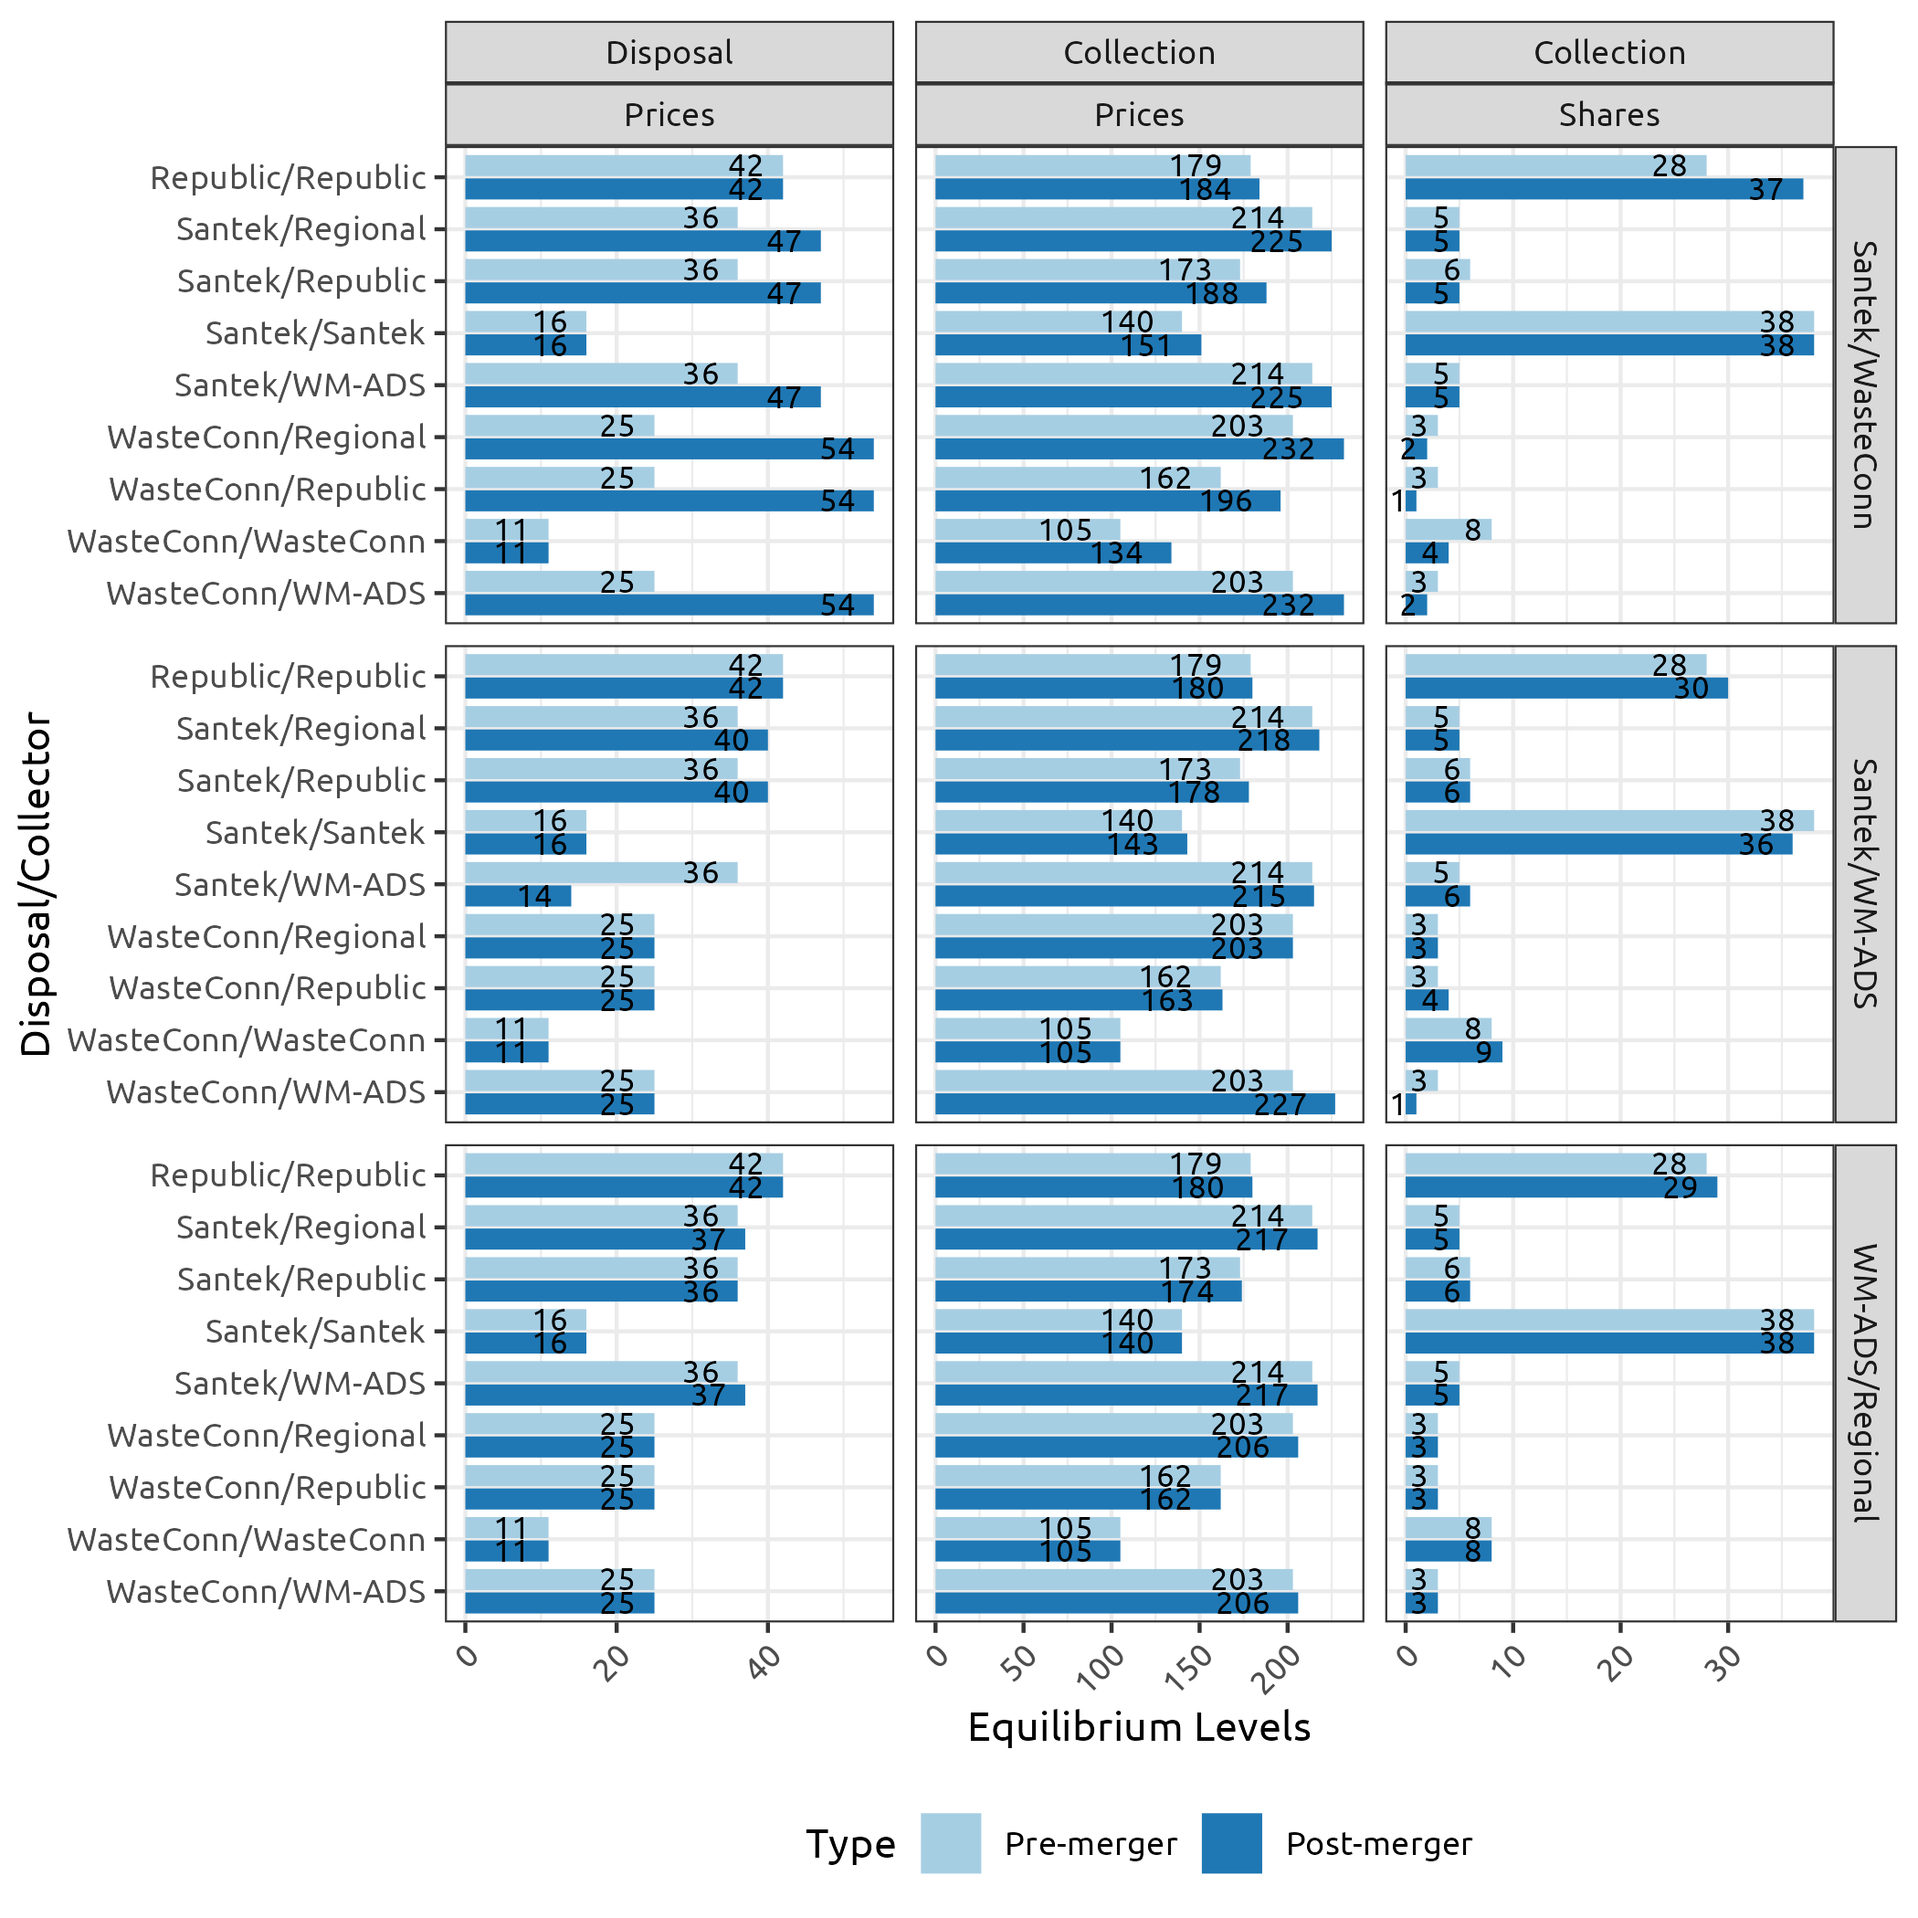
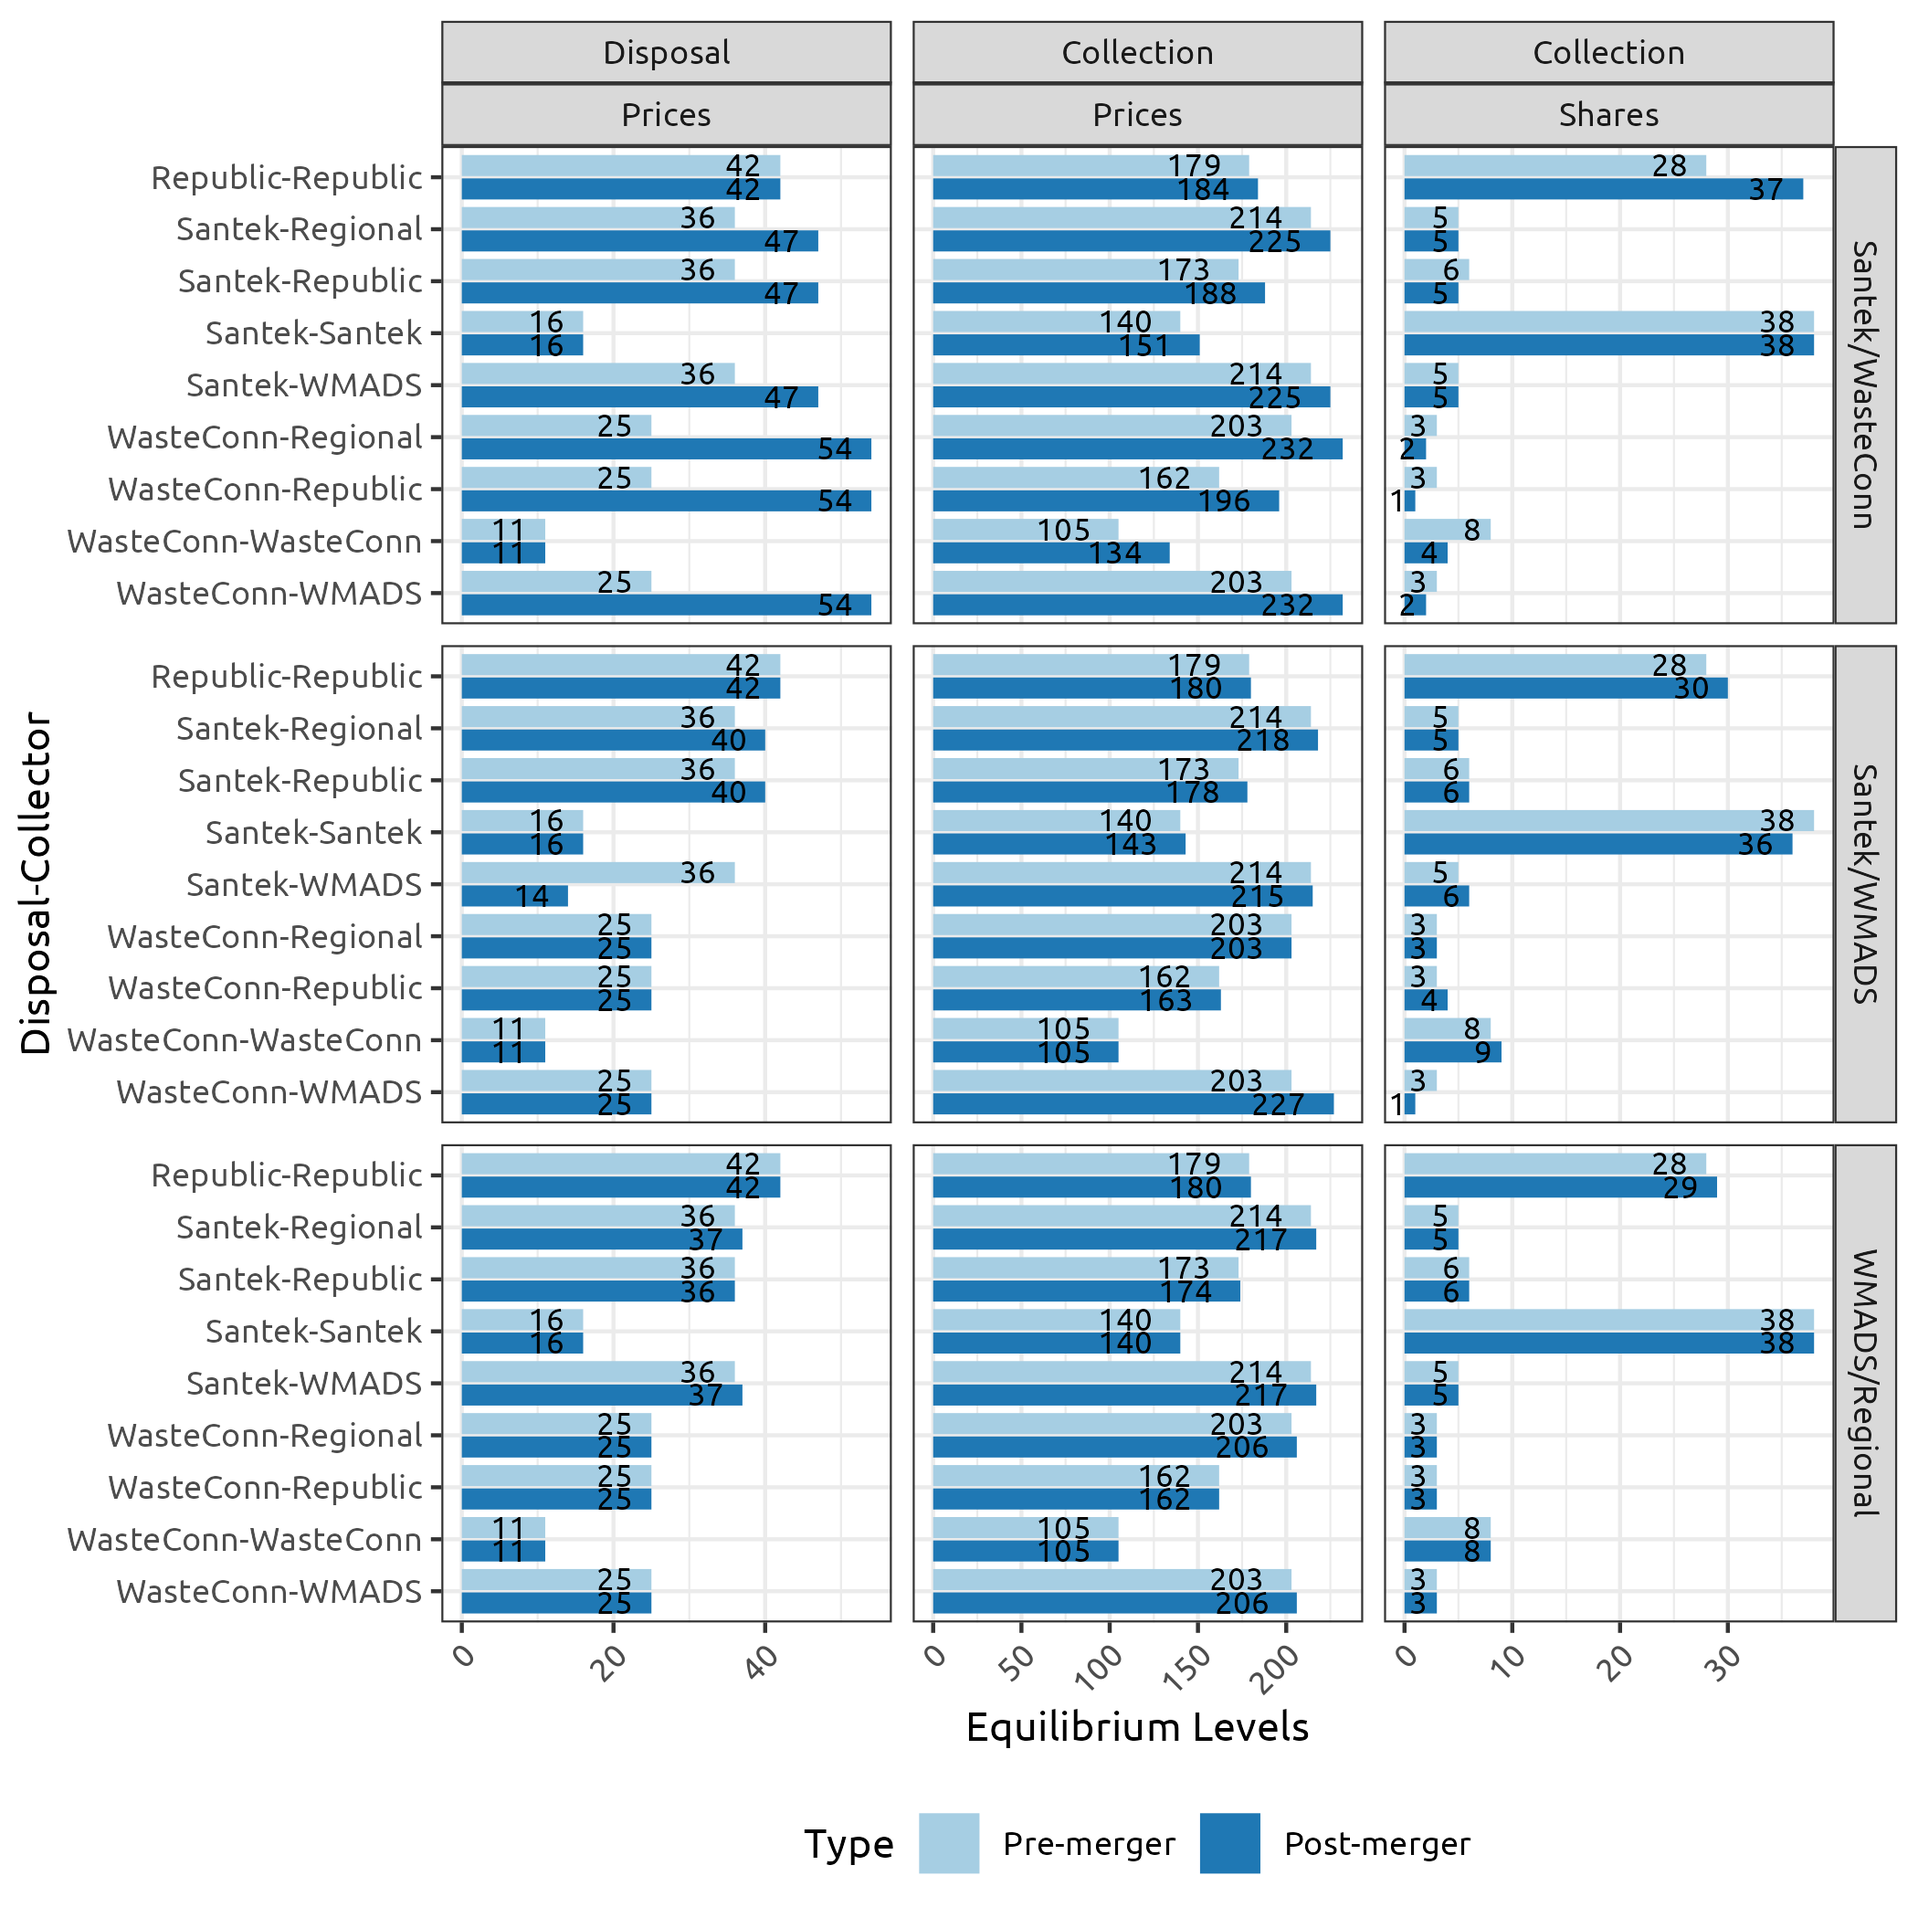
changed WM-ADS to WMADS and now referto all product pairs with a hyphen rather than a slash.

diff --git a/doc/TrashSims.tex b/doc/TrashSims.tex
@@ -11,34 +11,34 @@
 Level & Effect & Disposal & Collector & Pre-merger & Post-merger & Change (\%)\\
 \midrule
 Disposal & Prices & Republic & Republic & 42 & 42 & 0\\
-Disposal & Prices & Santek & WM-ADS & 36 & 69 & 88\\
+Disposal & Prices & Santek & WMADS & 36 & 69 & 88\\
 Disposal & Prices & Santek & Regional & 36 & 69 & 88\\
 Disposal & Prices & Santek & Santek & 16 & 16 & 0\\
 Disposal & Prices & Santek & Republic & 36 & 14 & -63\\
 \addlinespace
-Disposal & Prices & WasteConn & WM-ADS & 25 & 31 & 22\\
+Disposal & Prices & WasteConn & WMADS & 25 & 31 & 22\\
 Disposal & Prices & WasteConn & Republic & 25 & 31 & 22\\
 Disposal & Prices & WasteConn & Regional & 25 & 31 & 22\\
 Disposal & Prices & WasteConn & WasteConn & 11 & 11 & 0\\
 Collection & Prices & Republic & Republic & 179 & 217 & 21\\
 \addlinespace
 Collection & Prices & Santek & Santek & 140 & 172 & 23\\
-Collection & Prices & Santek & WM-ADS & 214 & 247 & 15\\
+Collection & Prices & Santek & WMADS & 214 & 247 & 15\\
 Collection & Prices & Santek & Regional & 214 & 247 & 15\\
 Collection & Prices & Santek & Republic & 173 & 189 & 9\\
 Collection & Prices & WasteConn & Republic & 162 & 206 & 27\\
 \addlinespace
 Collection & Prices & WasteConn & WasteConn & 105 & 111 & 5\\
-Collection & Prices & WasteConn & WM-ADS & 203 & 209 & 3\\
+Collection & Prices & WasteConn & WMADS & 203 & 209 & 3\\
 Collection & Prices & WasteConn & Regional & 203 & 209 & 3\\
 Collection & Shares & Republic & Republic & 31 & 23 & -28\\
 Collection & Shares & Santek & Republic & 6 & 9 & 48\\
 \addlinespace
 Collection & Shares & Santek & Santek & 32 & 29 & -9\\
-Collection & Shares & Santek & WM-ADS & 7 & 6 & -17\\
+Collection & Shares & Santek & WMADS & 7 & 6 & -17\\
 Collection & Shares & Santek & Regional & 7 & 6 & -17\\
 Collection & Shares & WasteConn & WasteConn & 5 & 11 & 104\\
-Collection & Shares & WasteConn & WM-ADS & 4 & 7 & 94\\
+Collection & Shares & WasteConn & WMADS & 4 & 7 & 94\\
 \addlinespace
 Collection & Shares & WasteConn & Regional & 4 & 7 & 94\\
 Collection & Shares & WasteConn & Republic & 3 & 2 & -39\\

diff --git a/doc/TrashData.tex b/doc/TrashData.tex
@@ -11,7 +11,7 @@ Republic & Republic & 165 & 42 & 0 & 44 & 179\\
 
  & Santek & 218 & 16 & 0 &  & 134\\
 
- & WM-ADS & 30 & 36 & 20 &  & 221\\
+ & WMADS & 30 & 36 & 20 &  & 221\\
 
 \multirow{-4}{*}{\raggedleft\arraybackslash Santek} & Regional & 30 & 36 & 20 &  & 221\\
 \cmidrule{1-7}
@@ -19,7 +19,7 @@ Republic & Republic & 165 & 42 & 0 & 44 & 179\\
 
  & WasteConn & 48 & 11 & 0 &  & 110\\
 
- & WM-ADS & 17 & 25 & 14 &  & 210\\
+ & WMADS & 17 & 25 & 14 &  & 210\\
 
 \multirow{-4}{*}{\raggedleft\arraybackslash WasteConn} & Regional & 17 & 25 & 14 &  & 210\\
 \bottomrule
